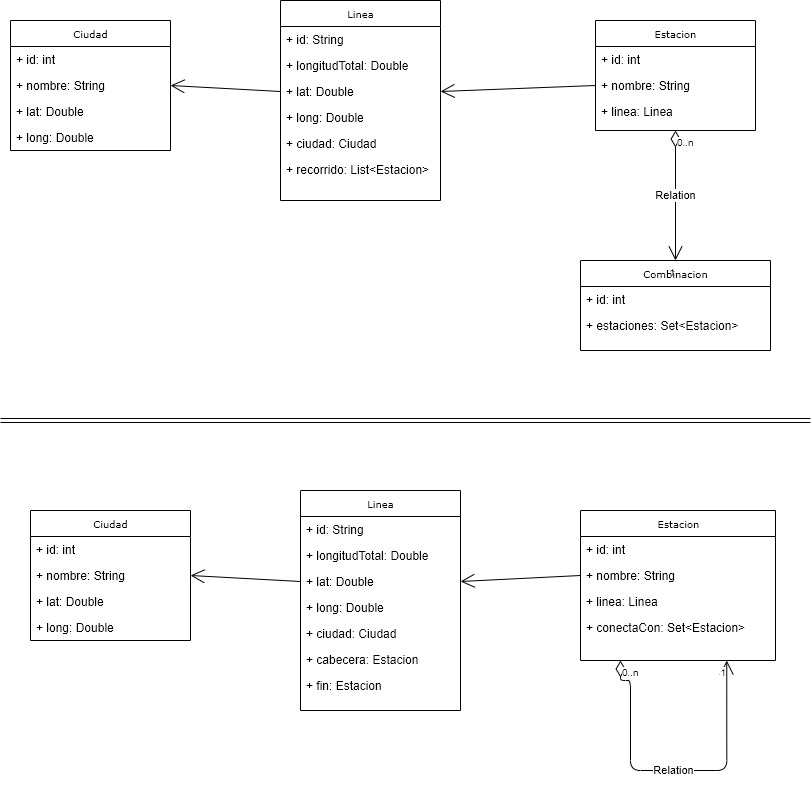
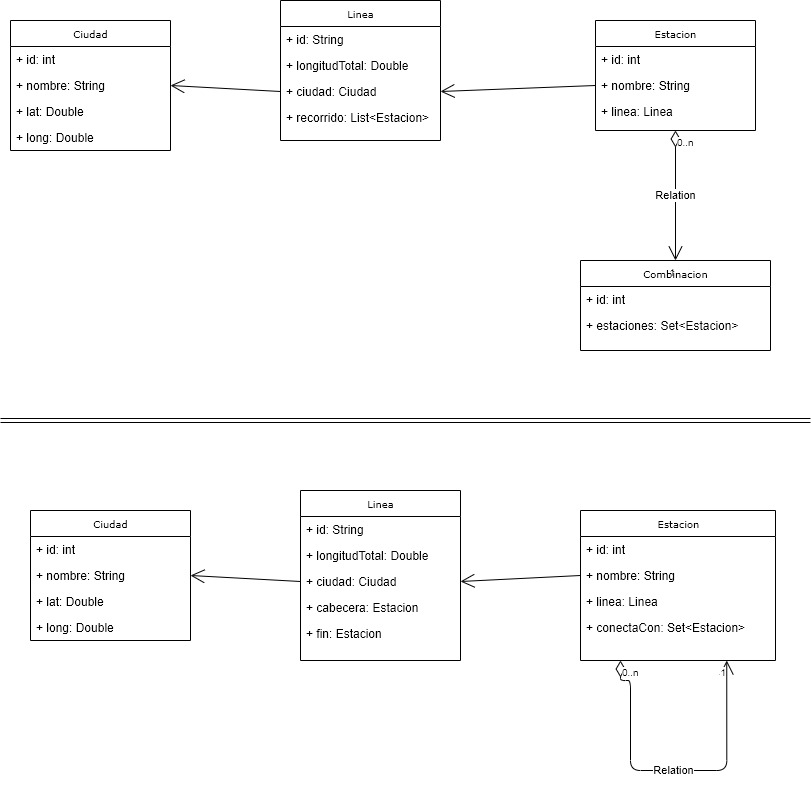
Entidades

Changed region(s): [[0.3699, 0.0914, 0.524, 0.2437], [0.3699, 0.731, 0.524, 0.8832]]

diff --git a/subtes/src/main/java/ar/edu/uca/bd/subtes/entities/Linea.java b/subtes/src/main/java/ar/edu/uca/bd/subtes/entities/Linea.java
@@ -1,0 +1,96 @@
+package ar.edu.uca.bd.subtes.entities;
+
+public class Linea {
+
+	private String id;
+	private Double longitudTotal;
+	private Ciudad ciudad;
+	private Estacion cabecera;
+	private Estacion fin;
+	
+	public Linea() {
+		// TODO Auto-generated constructor stub
+	}
+
+	public String getId() {
+		return id;
+	}
+
+	public void setId(String id) {
+		this.id = id;
+	}
+
+	public Double getLongitudTotal() {
+		return longitudTotal;
+	}
+
+	public void setLongitudTotal(Double longitudTotal) {
+		this.longitudTotal = longitudTotal;
+	}
+
+	public Ciudad getCiudad() {
+		return ciudad;
+	}
+
+	public void setCiudad(Ciudad ciudad) {
+		this.ciudad = ciudad;
+	}
+
+	public Estacion getCabecera() {
+		return cabecera;
+	}
+
+	public void setCabecera(Estacion cabecera) {
+		this.cabecera = cabecera;
+	}
+
+	public Estacion getFin() {
+		return fin;
+	}
+
+	public void setFin(Estacion fin) {
+		this.fin = fin;
+	}
+
+	@Override
+	public int hashCode() {
+		final int prime = 31;
+		int result = 1;
+		result = prime * result + ((id == null) ? 0 : id.hashCode());
+		return result;
+	}
+
+	@Override
+	public boolean equals(Object obj) {
+		if (this == obj)
+			return true;
+		if (obj == null)
+			return false;
+		if (getClass() != obj.getClass())
+			return false;
+		Linea other = (Linea) obj;
+		if (id == null) {
+			if (other.id != null)
+				return false;
+		} else if (!id.equals(other.id))
+			return false;
+		return true;
+	}
+
+	public Linea(String id, Double longitudTotal, Ciudad ciudad, Estacion cabecera, Estacion fin) {
+		super();
+		this.id = id;
+		this.longitudTotal = longitudTotal;
+		this.ciudad = ciudad;
+		this.cabecera = cabecera;
+		this.fin = fin;
+	}
+
+	@Override
+	public String toString() {
+		return "Linea [id=" + id + ", longitudTotal=" + longitudTotal + ", ciudad=" + ciudad + ", cabecera=" + cabecera
+				+ ", fin=" + fin + "]";
+	}
+	
+	
+}

diff --git a/subtes/src/main/java/ar/edu/uca/bd/subtes/entities/Estacion.java b/subtes/src/main/java/ar/edu/uca/bd/subtes/entities/Estacion.java
@@ -1,0 +1,84 @@
+package ar.edu.uca.bd.subtes.entities;
+
+import java.util.Set;
+
+public class Estacion {
+
+	private int id;
+	private String nombre;
+	private Linea linea;
+	private Set<Estacion> conectaCon;
+	
+	public Estacion() {
+		// TODO Auto-generated constructor stub
+	}
+
+	public int getId() {
+		return id;
+	}
+
+	public void setId(int id) {
+		this.id = id;
+	}
+
+	public String getNombre() {
+		return nombre;
+	}
+
+	public void setNombre(String nombre) {
+		this.nombre = nombre;
+	}
+
+	public Linea getLinea() {
+		return linea;
+	}
+
+	public void setLinea(Linea linea) {
+		this.linea = linea;
+	}
+
+	public Set<Estacion> getConectaCon() {
+		return conectaCon;
+	}
+
+	public void setConectaCon(Set<Estacion> conectaCon) {
+		this.conectaCon = conectaCon;
+	}
+
+	@Override
+	public int hashCode() {
+		final int prime = 31;
+		int result = 1;
+		result = prime * result + id;
+		return result;
+	}
+
+	@Override
+	public boolean equals(Object obj) {
+		if (this == obj)
+			return true;
+		if (obj == null)
+			return false;
+		if (getClass() != obj.getClass())
+			return false;
+		Estacion other = (Estacion) obj;
+		if (id != other.id)
+			return false;
+		return true;
+	}
+
+	public Estacion(int id, String nombre, Linea linea, Set<Estacion> conectaCon) {
+		super();
+		this.id = id;
+		this.nombre = nombre;
+		this.linea = linea;
+		this.conectaCon = conectaCon;
+	}
+
+	@Override
+	public String toString() {
+		return "Estacion [id=" + id + ", nombre=" + nombre + ", linea=" + linea + ", conectaCon=" + conectaCon + "]";
+	}
+	
+	
+}

diff --git a/subtes/src/main/java/ar/edu/uca/bd/subtes/entities/Ciudad.java b/subtes/src/main/java/ar/edu/uca/bd/subtes/entities/Ciudad.java
@@ -1,0 +1,83 @@
+package ar.edu.uca.bd.subtes.entities;
+
+public class Ciudad {
+
+	private int id;
+	private String nombre;
+	private Double latitud;
+	private Double longitud;
+	
+	public Ciudad() {
+		// TODO Auto-generated constructor stub
+	}
+
+	public int getId() {
+		return id;
+	}
+
+	public void setId(int id) {
+		this.id = id;
+	}
+
+	public String getNombre() {
+		return nombre;
+	}
+
+	public void setNombre(String nombre) {
+		this.nombre = nombre;
+	}
+
+	public Double getLatitud() {
+		return latitud;
+	}
+
+	public void setLatitud(Double latitud) {
+		this.latitud = latitud;
+	}
+
+	public Double getLongitud() {
+		return longitud;
+	}
+
+	public void setLongitud(Double longitud) {
+		this.longitud = longitud;
+	}
+
+	@Override
+	public int hashCode() {
+		final int prime = 31;
+		int result = 1;
+		result = prime * result + id;
+		return result;
+	}
+
+	@Override
+	public boolean equals(Object obj) {
+		if (this == obj)
+			return true;
+		if (obj == null)
+			return false;
+		if (getClass() != obj.getClass())
+			return false;
+		Ciudad other = (Ciudad) obj;
+		if (id != other.id)
+			return false;
+		return true;
+	}
+
+	@Override
+	public String toString() {
+		return "Ciudad [id=" + id + ", nombre=" + nombre + ", latitud=" + latitud + ", longitud=" + longitud + "]";
+	}
+
+	public Ciudad(int id, String nombre, Double latitud, Double longitud) {
+		super();
+		this.id = id;
+		this.nombre = nombre;
+		this.latitud = latitud;
+		this.longitud = longitud;
+	}
+	
+	
+	
+}
